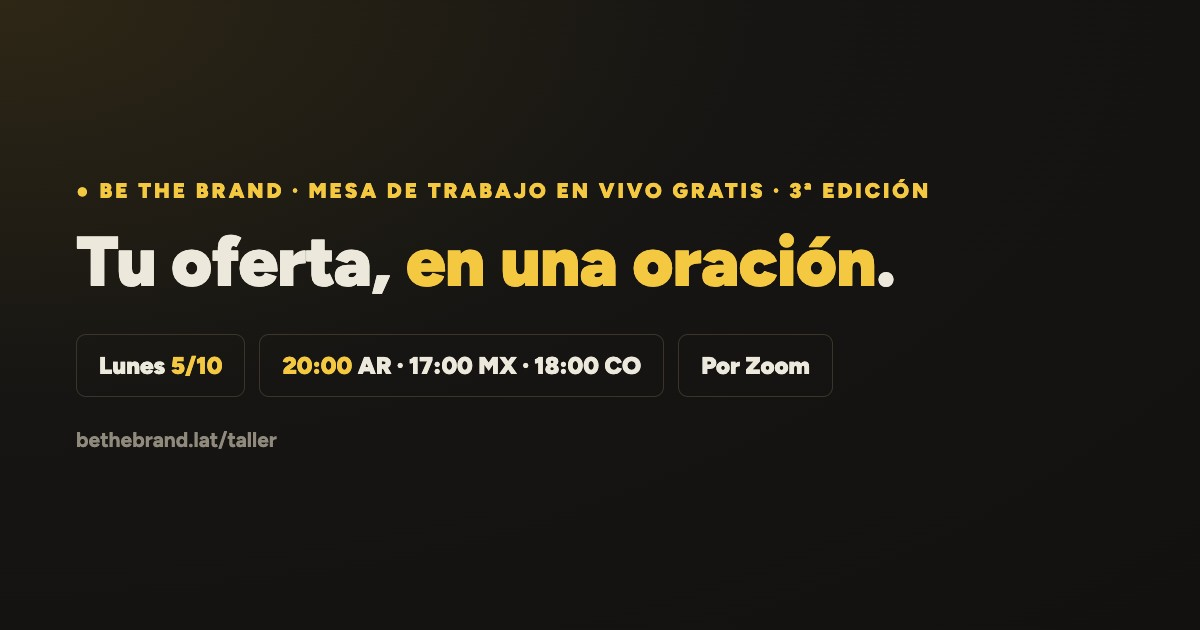
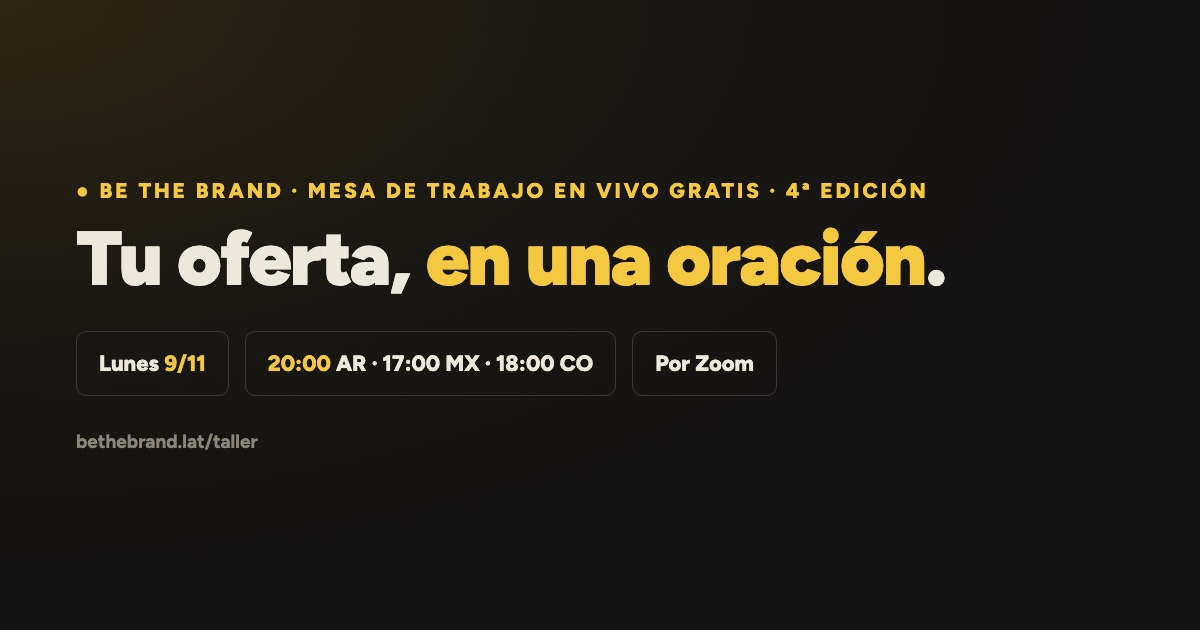
Taller #4 movido al lun 9/11 (viaje a Río); título 'no compra tu servicio, compra lo que necesita resolver'; og.jpg 4ª edición

diff --git a/taller/index.html b/taller/index.html
@@ -3,17 +3,17 @@
 <head>
 <meta charset="UTF-8">
 <meta name="viewport" content="width=device-width, initial-scale=1.0">
-<title>Tu oferta en una oración · mesa de trabajo en vivo · lunes 2 de noviembre · Be The Brand</title>
-<meta name="description" content="Mesa de trabajo en vivo para consultores y profesionales independientes que ya tienen clientes. 90 minutos sobre casos reales, cinco en la mesa, y salís con tu oferta escrita en una oración. Lunes 2 de noviembre, 20:00 AR, 17:00 México, 18:00 Colombia. Gratis.">
-<meta property="og:title" content="Tu oferta, en una oración — mesa de trabajo en vivo, lunes 2/11">
-<meta property="og:description" content="4ª edición · Mesa de trabajo en vivo para consultores y profesionales independientes. Lunes 2/11, 20:00 AR · 17:00 MX · 18:00 CO. Gratis, se trabajan cinco casos en vivo.">
-<meta property="og:image" content="https://bethebrand.lat/taller/og.jpg?v=3">
+<title>Tu oferta en una oración · mesa de trabajo en vivo · lunes 9 de noviembre · Be The Brand</title>
+<meta name="description" content="Mesa de trabajo en vivo para consultores y profesionales independientes que ya tienen clientes. 90 minutos sobre casos reales, cinco en la mesa, y salís con tu oferta escrita en una oración. Lunes 9 de noviembre, 20:00 AR, 17:00 México, 18:00 Colombia. Gratis.">
+<meta property="og:title" content="Tu oferta, en una oración — mesa de trabajo en vivo, lunes 9/11">
+<meta property="og:description" content="4ª edición · Mesa de trabajo en vivo para consultores y profesionales independientes. Lunes 9/11, 20:00 AR · 17:00 MX · 18:00 CO. Gratis, se trabajan cinco casos en vivo.">
+<meta property="og:image" content="https://bethebrand.lat/taller/og.jpg?v=4">
 <meta property="og:image:width" content="1200">
 <meta property="og:image:height" content="630">
 <meta property="og:url" content="https://bethebrand.lat/taller/">
 <meta property="og:type" content="website">
 <meta name="twitter:card" content="summary_large_image">
-<meta name="twitter:image" content="https://bethebrand.lat/taller/og.jpg?v=3">
+<meta name="twitter:image" content="https://bethebrand.lat/taller/og.jpg?v=4">
 <link href="https://fonts.googleapis.com/css2?family=Figtree:wght@400;600;900&display=swap" rel="stylesheet">
 <style>
   :root {
@@ -257,22 +257,22 @@
 <header class="hero">
   <div class="wrap">
     <p class="hero-kicker">Mesa de trabajo en vivo · 4ª edición · gratis</p>
-    <h1 class="v-a">el que te compra <em>no compra</em> tu tarea.</h1>
+    <h1 class="v-a">el que te compra no compra tu servicio. compra <em>lo que necesita resolver</em>.</h1>
     <h1 class="v-b" hidden>tu oferta, <em>en una oración</em>.</h1>
     <p class="hero-body v-a">
-      Hacés bien tu trabajo, pero hoy eso lo saben solo los clientes que ya tenés. Te compran por lo que les resolvés, y si cuando te preguntan a qué te dedicás contestás con tu tarea, el que no te conoce no entiende para qué te necesita.
-      <strong>El lunes 2 lo destrabamos en vivo, sobre casos reales, y te llevás tu oferta escrita en una oración.</strong>
+      Hacés bien tu trabajo, pero hoy eso lo saben solo los clientes que ya tenés. Te compran por lo que les resolvés, y si cuando te preguntan a qué te dedicás contestás con tu servicio, el que no te conoce no entiende para qué te necesita.
+      <strong>El lunes 9 lo destrabamos en vivo, sobre casos reales, y te llevás tu oferta escrita en una oración.</strong>
     </p>
     <p class="hero-body v-b" hidden>
       Resuelvo tal problema, para tales personas, en tal tiempo. Si no te sale de corrido, ahí está lo que te frena, y se nota en cómo te llegan los clientes.
-      <strong>El lunes 2 la escribimos en vivo, sobre casos reales, y te llevás la tuya terminada.</strong>
+      <strong>El lunes 9 la escribimos en vivo, sobre casos reales, y te llevás la tuya terminada.</strong>
     </p>
     <p class="hero-for">Para consultores y profesionales independientes de LATAM que ya tienen clientes. Si la mesa no es para vos, te lo digo antes de que te anotes.</p>
 
     <div class="when">
       <div>
         <div class="k">Cuándo</div>
-        <div class="v">Lunes <span>2 de noviembre</span></div>
+        <div class="v">Lunes <span>9 de noviembre</span></div>
         <div class="s">20:00 Argentina · 17:00 México y Costa Rica · 18:00 Colombia y Panamá</div>
       </div>
       <div>
@@ -392,7 +392,7 @@
   <div class="wrap">
     <p class="label">Los cinco casos</p>
     <h2>Salen de lo que escribís al anotarte.</h2>
-    <p class="lead">Entrar a la sala es gratis. En la mesa hablan cinco, y los elijo el sábado 31 de octubre entre las oraciones que la gente deja en el formulario. Escribí la tuya como te sale hoy, sin corregirla: cuanto más se parece a lo que decís cuando te preguntan qué hacés, más nos sirve para trabajarla.</p>
+    <p class="lead">Entrar a la sala es gratis. En la mesa hablan cinco, y los elijo el sábado 7 de noviembre entre las oraciones que la gente deja en el formulario. Escribí la tuya como te sale hoy, sin corregirla: cuanto más se parece a lo que decís cuando te preguntan qué hacés, más nos sirve para trabajarla.</p>
     <p class="lead" style="margin-top:16px"><strong>Si no te toca, trabajás igual sobre la tuya por el chat, y el martes te llega lo mismo que a los cinco.</strong></p>
     <p style="margin-top:28px"><a href="#registro" class="btn">dejar mi oración para la mesa →</a></p>
   </div>
@@ -439,7 +439,7 @@
   <div class="wrap narrow">
     <p class="label">Anotarte</p>
     <h2>¿La mesa es para vos?</h2>
-    <p class="lead" style="margin-bottom:8px"><strong>Lunes 2 de noviembre, 20:00 AR</strong> · 17:00 MX y CR · 18:00 CO y PA. En vivo, por Zoom, gratis.</p>
+    <p class="lead" style="margin-bottom:8px"><strong>Lunes 9 de noviembre, 20:00 AR</strong> · 17:00 MX y CR · 18:00 CO y PA. En vivo, por Zoom, gratis.</p>
     <p class="lead" style="margin-bottom:28px">Dos minutos. Con lo que me contás de tus clientes te digo en el momento si la mesa es para vos. Si entrás, la oración es lo que más importa: de ahí salen los cinco casos.</p>
 
   <div class="form-wrap">
@@ -529,7 +529,7 @@
       <button type="submit" class="btn btn-primary btn-block" style="margin-top:6px">anotarme →</button>
 
       <p style="font-size:12px;color:var(--gray);text-align:center;margin-top:2px;line-height:1.5">
-        Taller: lunes 2 de noviembre, 20:00 AR · 17:00 MX y CR · 18:00 CO y PA, por Zoom. El link te llega por WhatsApp ese día.
+        Taller: lunes 9 de noviembre, 20:00 AR · 17:00 MX y CR · 18:00 CO y PA, por Zoom. El link te llega por WhatsApp ese día.
       </p>
     </form>
   </div>
@@ -644,7 +644,7 @@
           '<div style="text-align:center;padding:16px 0">' +
             '<div style="font-size:44px;margin-bottom:16px">✓</div>' +
             '<p style="font-size:20px;font-weight:900;color:var(--cream);margin-bottom:10px">Listo, tenés tu lugar.</p>' +
-            '<p style="font-size:15px;color:rgba(245,240,232,0.6);line-height:1.6;margin-bottom:24px">Nos vemos el <strong style="color:var(--cream)">lunes 2 de noviembre</strong> (20:00 AR · 17:00 MX y CR · 18:00 CO y PA). El link de Zoom te llega por WhatsApp ese día.</p>' +
+            '<p style="font-size:15px;color:rgba(245,240,232,0.6);line-height:1.6;margin-bottom:24px">Nos vemos el <strong style="color:var(--cream)">lunes 9 de noviembre</strong> (20:00 AR · 17:00 MX y CR · 18:00 CO y PA). El link de Zoom te llega por WhatsApp ese día.</p>' +
             '<p style="font-size:15px;color:var(--cream);line-height:1.6;margin-bottom:16px"><strong>Un paso más.</strong> Confirmame el lugar por WhatsApp y te paso la fórmula que vamos a usar en la mesa. De los que escriben elijo los cinco casos en vivo.</p>' +
             '<a class="btn btn-block" style="text-align:center;text-decoration:none" target="_blank" rel="noopener" href="https://wa.me/5491168765302?text=CONFIRMO" onclick="try{fbq(\'trackCustom\',\'ConfirmoWhatsApp\')}catch(e){}">Confirmar por WhatsApp</a>' +
             '<p class="btn-note" style="text-align:center">Se abre WhatsApp con el mensaje ya escrito. Solo tenés que enviarlo.</p>' +
@@ -681,10 +681,10 @@
     })();
   </script>
   <script>
-    // Cuenta regresiva a la hora real del taller: lunes 2/11/2026, 20:00 AR = 23:00 UTC.
+    // Cuenta regresiva a la hora real del taller: lunes 9/11/2026, 20:00 AR = 23:00 UTC.
     // Solo presentación; no toca el formulario ni la captura.
     (function () {
-      var start = Date.parse('2026-11-02T23:00:00Z');
+      var start = Date.parse('2026-11-09T23:00:00Z');
       var box = document.getElementById('cd');
       var d = document.getElementById('cd-d'), h = document.getElementById('cd-h'), m = document.getElementById('cd-m');
       if (!box || !d || !h || !m) return;
@@ -716,7 +716,7 @@
 </footer>
 
 <!-- CTA fijo mobile -->
-<div class="sticky-cta"><a href="#registro"><span>ver si es para mí →</span><small>lun 2/11<br>20:00 AR</small></a></div>
+<div class="sticky-cta"><a href="#registro"><span>ver si es para mí →</span><small>lun 9/11<br>20:00 AR</small></a></div>
 
 <script>
 // Últimas publicaciones de Instagram (btb-capture/api/ig, cache 30 min). Si falla, quedan los reels locales.
